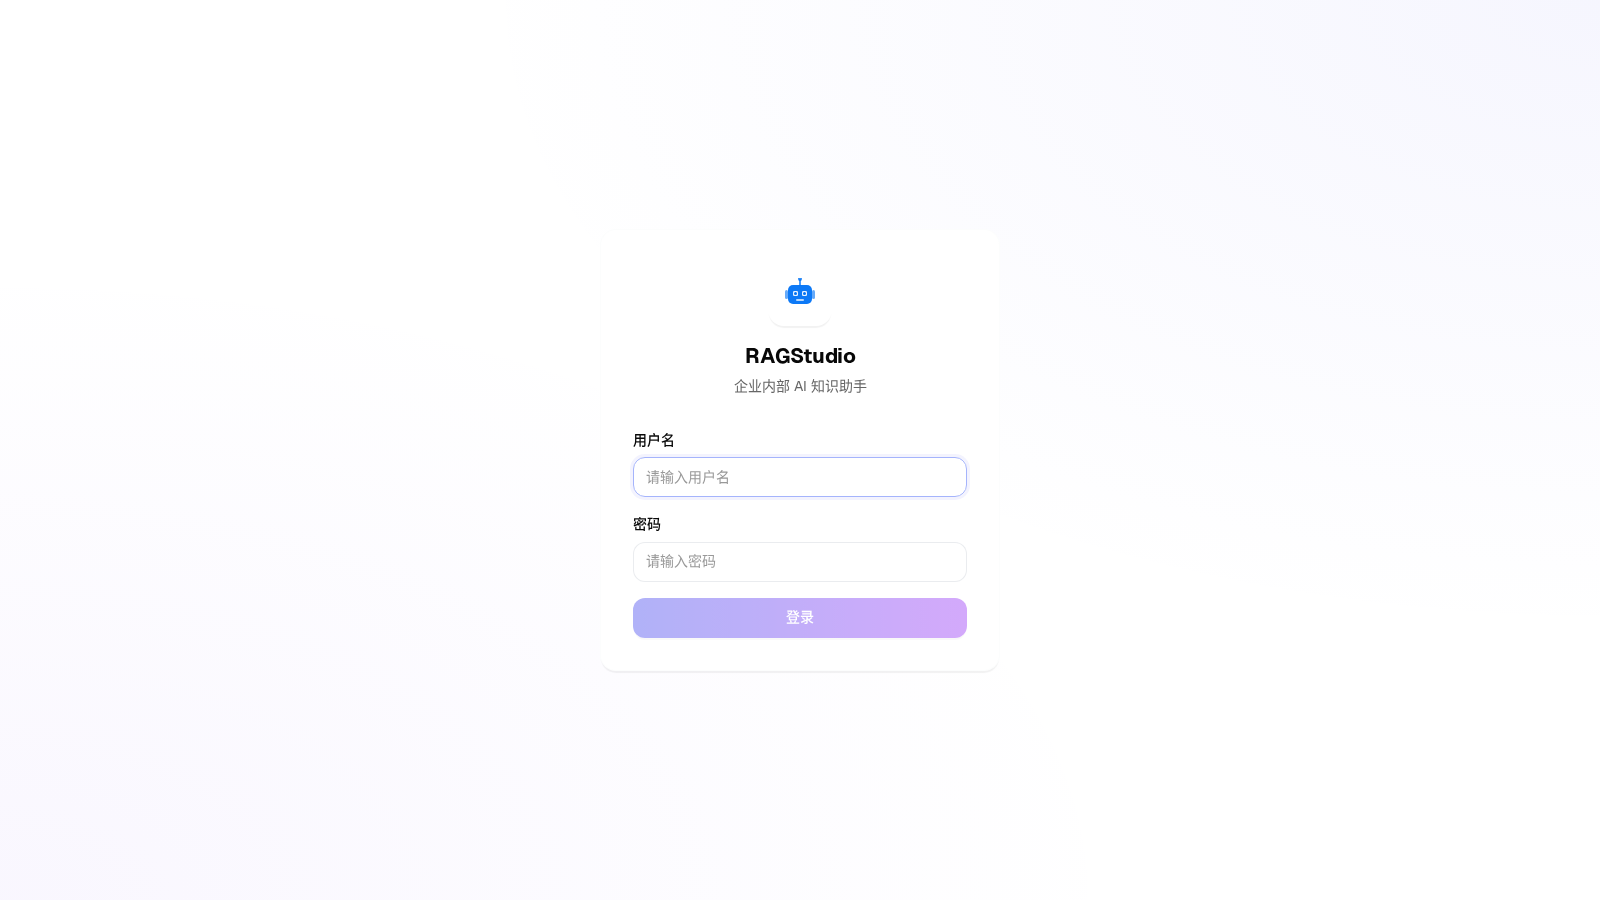
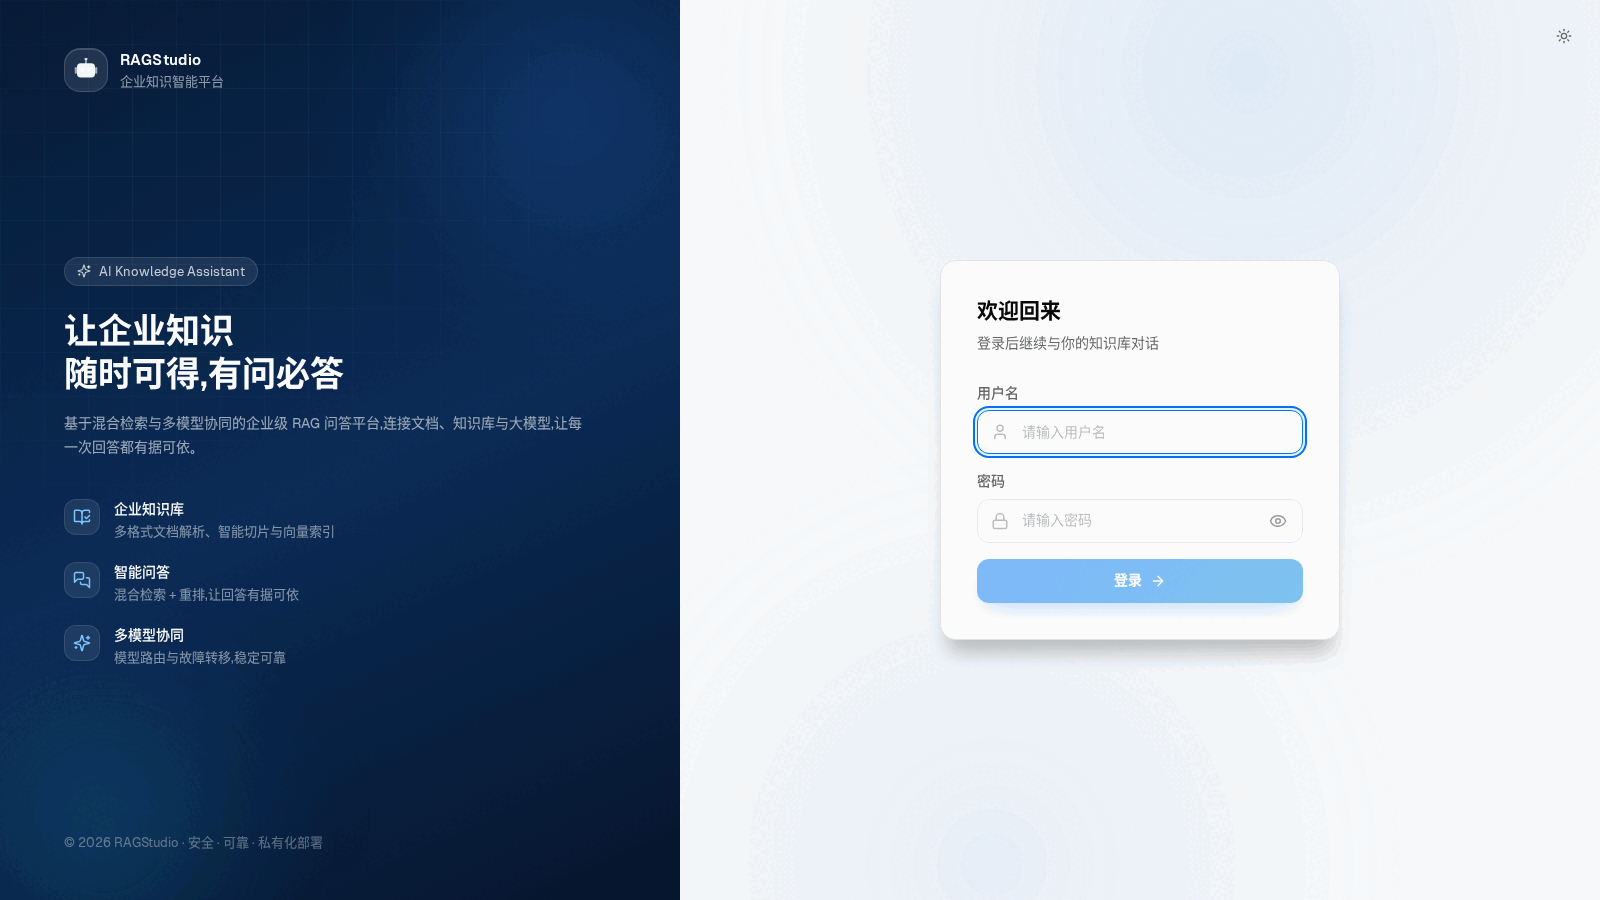
feat(login): 登录页双栏品牌改版——明暗主题切换、密码显隐、响应式适配，同步截图与README

diff --git a/frontend/src/pages/LoginPage.tsx b/frontend/src/pages/LoginPage.tsx
@@ -1,15 +1,45 @@
 import * as React from "react";
 import { useNavigate } from "react-router-dom";
-import { Loader2 } from "lucide-react";
+import {
+  ArrowRight,
+  BookOpenCheck,
+  Eye,
+  EyeOff,
+  Lock,
+  Loader2,
+  MessagesSquare,
+  Sparkles,
+  User
+} from "lucide-react";
 
 import { RAGStudioLogo } from "@/components/common/RAGStudioLogo";
+import { ThemeToggle } from "@/components/common/ThemeToggle";
 import { useAuthStore } from "@/stores/authStore";
+
+const FEATURES = [
+  {
+    icon: BookOpenCheck,
+    title: "企业知识库",
+    desc: "多格式文档解析、智能切片与向量索引"
+  },
+  {
+    icon: MessagesSquare,
+    title: "智能问答",
+    desc: "混合检索 + 重排，让回答有据可依"
+  },
+  {
+    icon: Sparkles,
+    title: "多模型协同",
+    desc: "模型路由与故障转移，稳定可靠"
+  }
+];
 
 export function LoginPage() {
   const navigate = useNavigate();
   const { login, isAuthenticated, isLoading } = useAuthStore();
   const [username, setUsername] = React.useState("");
   const [password, setPassword] = React.useState("");
+  const [showPassword, setShowPassword] = React.useState(false);
 
   React.useEffect(() => {
     if (isAuthenticated) {
@@ -17,9 +47,11 @@ export function LoginPage() {
     }
   }, [isAuthenticated, navigate]);
 
+  const canSubmit = Boolean(username.trim() && password.trim()) && !isLoading;
+
   const handleSubmit = async (e: React.FormEvent) => {
     e.preventDefault();
-    if (!username.trim() || !password.trim()) return;
+    if (!canSubmit) return;
     try {
       await login(username.trim(), password);
       navigate("/chat", { replace: true });
@@ -28,61 +60,236 @@ export function LoginPage() {
     }
   };
 
-  return (
-    <div className="relative flex min-h-screen items-center justify-center overflow-hidden px-4">
-      {/* 渐变背景层 */}
-      <div className="absolute inset-0 bg-gradient-to-br from-indigo-50 via-purple-50/40 to-indigo-100/60" />
-      <div className="absolute inset-0 bg-[radial-gradient(ellipse_at_top_right,rgba(99,102,241,0.06),transparent_50%)]" />
-      <div className="absolute inset-0 bg-[radial-gradient(ellipse_at_bottom_left,rgba(139,92,246,0.05),transparent_50%)]" />
+  const inputClass =
+    "h-11 w-full rounded-xl border border-border bg-transparent pl-11 pr-4 text-sm text-[var(--color-text)] outline-none transition-all duration-200 placeholder:text-[var(--color-text-quaternary)] focus:border-[hsl(var(--primary))] focus:shadow-[0_0_0_4px_hsl(var(--primary)/0.10)]";
 
-      {/* 登录卡片 */}
-      <div className="relative w-full max-w-[400px] animate-fade-up">
-        <div className="rounded-2xl border border-border/10 bg-card p-8 shadow-tertiary backdrop-blur-xl backdrop-saturate-150">
-          {/* Logo */}
-          <div className="flex flex-col items-center">
-            <div className="flex h-16 w-16 items-center justify-center rounded-2xl bg-gradient-to-br from-indigo-50 to-purple-50 shadow-sm">
-              <RAGStudioLogo className="h-8 w-8 text-indigo-600" />
+  return (
+    <div className="relative flex h-screen overflow-y-auto bg-[var(--color-bg-layout)]">
+      {/* 背景光晕 */}
+      <div
+        className="pointer-events-none fixed inset-0"
+        style={{
+          background:
+            "radial-gradient(900px circle at 78% 8%, hsl(var(--primary) / 0.10), transparent 60%), radial-gradient(700px circle at 62% 96%, hsl(var(--primary) / 0.07), transparent 60%)"
+        }}
+      />
+
+      <ThemeToggle className="fixed right-5 top-5 z-20" />
+
+      <div className="relative flex min-h-full w-full flex-col lg:flex-row">
+        {/* 左侧品牌区 */}
+        <aside
+          className="relative hidden w-[46%] max-w-[680px] shrink-0 flex-col justify-between overflow-hidden px-14 py-12 lg:flex xl:px-16"
+          style={{
+            background: "linear-gradient(155deg, #071b36 0%, #0b2c57 52%, #06142a 100%)"
+          }}
+        >
+          {/* 网格纹理 */}
+          <div
+            className="pointer-events-none absolute inset-0"
+            style={{
+              backgroundImage:
+                "linear-gradient(rgba(255,255,255,0.045) 1px, transparent 1px), linear-gradient(90deg, rgba(255,255,255,0.045) 1px, transparent 1px)",
+              backgroundSize: "44px 44px",
+              maskImage: "radial-gradient(ellipse 90% 70% at 30% 18%, black, transparent 75%)",
+              WebkitMaskImage: "radial-gradient(ellipse 90% 70% at 30% 18%, black, transparent 75%)"
+            }}
+          />
+          {/* 光斑 */}
+          <div
+            className="pointer-events-none absolute -right-24 -top-24 h-[420px] w-[420px] animate-pulse-soft rounded-full blur-3xl"
+            style={{ background: "radial-gradient(circle, rgba(56,132,255,0.35), transparent 65%)" }}
+          />
+          <div
+            className="pointer-events-none absolute -bottom-32 -left-24 h-[400px] w-[400px] rounded-full blur-3xl"
+            style={{ background: "radial-gradient(circle, rgba(34,211,238,0.20), transparent 65%)" }}
+          />
+
+          {/* 顶部 Logo */}
+          <div className="relative flex items-center gap-3">
+            <div
+              className="flex h-11 w-11 items-center justify-center rounded-2xl"
+              style={{
+                background: "rgba(255,255,255,0.10)",
+                border: "1px solid rgba(255,255,255,0.14)",
+                boxShadow: "inset 0 1px 0 rgba(255,255,255,0.16)"
+              }}
+            >
+              <RAGStudioLogo className="h-6 w-6 text-white" />
             </div>
-            <h1 className="mt-4 text-xl font-bold text-gray-900">RAGStudio</h1>
-            <p className="mt-1 text-sm text-gray-500">企业内部 AI 知识助手</p>
+            <div>
+              <p className="text-base font-semibold tracking-wide text-white">RAGStudio</p>
+              <p className="text-xs" style={{ color: "rgba(255,255,255,0.55)" }}>
+                企业知识智能平台
+              </p>
+            </div>
           </div>
 
-          {/* Form */}
-          <form onSubmit={handleSubmit} className="mt-8 space-y-4">
-            <div className="space-y-1.5">
-              <label className="text-sm font-medium text-gray-700">用户名</label>
-              <input
-                type="text"
-                value={username}
-                onChange={(e) => setUsername(e.target.value)}
-                placeholder="请输入用户名"
-                autoFocus
-                className="h-10 w-full rounded-xl border border-gray-200/80 bg-white/70 px-3 text-sm text-gray-900 placeholder:text-gray-400 transition-all duration-200 focus:border-indigo-300 focus:shadow-[0_0_0_3px_rgba(99,102,241,0.08)] focus:outline-none"
-              />
-            </div>
-            <div className="space-y-1.5">
-              <label className="text-sm font-medium text-gray-700">密码</label>
-              <input
-                type="password"
-                value={password}
-                onChange={(e) => setPassword(e.target.value)}
-                placeholder="请输入密码"
-                className="h-10 w-full rounded-xl border border-gray-200/80 bg-white/70 px-3 text-sm text-gray-900 placeholder:text-gray-400 transition-all duration-200 focus:border-indigo-300 focus:shadow-[0_0_0_3px_rgba(99,102,241,0.08)] focus:outline-none"
-              />
-            </div>
-            <button
-              type="submit"
-              disabled={isLoading || !username.trim() || !password.trim()}
-              className="flex h-10 w-full items-center justify-center rounded-xl bg-gradient-to-r from-indigo-500 to-purple-500 text-sm font-medium text-white shadow-sm transition-all duration-200 hover:shadow-md hover:shadow-indigo-200/50 disabled:opacity-50"
+          {/* 中部文案 */}
+          <div className="relative max-w-[520px]">
+            <span
+              className="inline-flex items-center gap-2 rounded-full px-3 py-1 text-xs"
+              style={{
+                background: "rgba(255,255,255,0.08)",
+                border: "1px solid rgba(255,255,255,0.12)",
+                color: "rgba(255,255,255,0.75)"
+              }}
             >
-              {isLoading ? (
-                <Loader2 className="h-4 w-4 animate-spin" />
-              ) : (
-                "登录"
-              )}
-            </button>
-          </form>
-        </div>
+              <Sparkles className="h-3.5 w-3.5" />
+              AI Knowledge Assistant
+            </span>
+            <h2 className="mt-6 text-[34px] font-semibold leading-[1.25] text-white">
+              让企业知识
+              <br />
+              随时可得，有问必答
+            </h2>
+            <p className="mt-4 text-sm leading-6" style={{ color: "rgba(255,255,255,0.6)" }}>
+              基于混合检索与多模型协同的企业级 RAG 问答平台，连接文档、知识库与大模型，让每一次回答都有据可依。
+            </p>
+
+            <div className="mt-10 space-y-5">
+              {FEATURES.map(({ icon: Icon, title, desc }) => (
+                <div key={title} className="flex items-start gap-3.5">
+                  <div
+                    className="flex h-9 w-9 shrink-0 items-center justify-center rounded-xl"
+                    style={{
+                      background: "rgba(255,255,255,0.08)",
+                      border: "1px solid rgba(255,255,255,0.10)"
+                    }}
+                  >
+                    <Icon className="h-[18px] w-[18px] text-[#7cc4ff]" />
+                  </div>
+                  <div>
+                    <p className="text-sm font-medium text-white">{title}</p>
+                    <p className="mt-0.5 text-[13px] leading-5" style={{ color: "rgba(255,255,255,0.5)" }}>
+                      {desc}
+                    </p>
+                  </div>
+                </div>
+              ))}
+            </div>
+          </div>
+
+          <p className="relative text-xs" style={{ color: "rgba(255,255,255,0.35)" }}>
+            © {new Date().getFullYear()} RAGStudio · 安全 · 可靠 · 私有化部署
+          </p>
+        </aside>
+
+        {/* 右侧登录区 */}
+        <main className="relative flex flex-1 items-center justify-center px-4 py-10 sm:px-8">
+          <div className="w-full max-w-[400px] animate-fade-up">
+            {/* 移动端品牌 */}
+            <div className="mb-8 flex flex-col items-center gap-3 lg:hidden">
+              <div
+                className="flex h-14 w-14 items-center justify-center rounded-2xl"
+                style={{
+                  background:
+                    "linear-gradient(135deg, hsl(var(--primary) / 0.14), hsl(var(--primary) / 0.04))",
+                  border: "1px solid hsl(var(--primary) / 0.18)"
+                }}
+              >
+                <RAGStudioLogo className="h-7 w-7 text-[hsl(var(--primary))]" />
+              </div>
+              <div className="text-center">
+                <p className="text-lg font-semibold text-[var(--color-text)]">RAGStudio</p>
+                <p className="text-xs text-[var(--color-text-secondary)]">企业内部 AI 知识助手</p>
+              </div>
+            </div>
+
+            {/* 登录卡片 */}
+            <div
+              className="rounded-2xl p-7 sm:p-9"
+              style={{
+                background: "var(--color-bg-container)",
+                border: "1px solid var(--color-border)",
+                boxShadow: "var(--shadow-lg)"
+              }}
+            >
+              <div className="mb-7">
+                <h1 className="text-xl font-semibold text-[var(--color-text)]">欢迎回来</h1>
+                <p className="mt-1.5 text-sm text-[var(--color-text-secondary)]">
+                  登录后继续与你的知识库对话
+                </p>
+              </div>
+
+              <form onSubmit={handleSubmit} className="space-y-4">
+                <div className="space-y-1.5">
+                  <label htmlFor="username" className="text-sm font-medium text-[var(--color-text-secondary)]">
+                    用户名
+                  </label>
+                  <div className="relative">
+                    <User className="pointer-events-none absolute left-3.5 top-1/2 h-[18px] w-[18px] -translate-y-1/2 text-[var(--color-text-quaternary)]" />
+                    <input
+                      id="username"
+                      type="text"
+                      value={username}
+                      onChange={(e) => setUsername(e.target.value)}
+                      placeholder="请输入用户名"
+                      autoFocus
+                      autoComplete="username"
+                      className={inputClass}
+                    />
+                  </div>
+                </div>
+
+                <div className="space-y-1.5">
+                  <label htmlFor="password" className="text-sm font-medium text-[var(--color-text-secondary)]">
+                    密码
+                  </label>
+                  <div className="relative">
+                    <Lock className="pointer-events-none absolute left-3.5 top-1/2 h-[18px] w-[18px] -translate-y-1/2 text-[var(--color-text-quaternary)]" />
+                    <input
+                      id="password"
+                      type={showPassword ? "text" : "password"}
+                      value={password}
+                      onChange={(e) => setPassword(e.target.value)}
+                      placeholder="请输入密码"
+                      autoComplete="current-password"
+                      className={`${inputClass} pr-11`}
+                    />
+                    <button
+                      type="button"
+                      tabIndex={-1}
+                      onClick={() => setShowPassword((v) => !v)}
+                      aria-label={showPassword ? "隐藏密码" : "显示密码"}
+                      className="absolute right-2.5 top-1/2 -translate-y-1/2 rounded-lg p-1.5 text-[var(--color-text-tertiary)] transition-colors hover:bg-[var(--color-fill-quaternary)] hover:text-[var(--color-text-secondary)]"
+                    >
+                      {showPassword ? (
+                        <EyeOff className="h-[18px] w-[18px]" />
+                      ) : (
+                        <Eye className="h-[18px] w-[18px]" />
+                      )}
+                    </button>
+                  </div>
+                </div>
+
+                <button
+                  type="submit"
+                  disabled={!canSubmit}
+                  className="group mt-2 flex h-11 w-full items-center justify-center gap-2 rounded-xl text-sm font-semibold text-white transition-all duration-200 hover:brightness-110 active:scale-[0.985] disabled:cursor-not-allowed disabled:opacity-50"
+                  style={{
+                    background:
+                      "linear-gradient(135deg, hsl(var(--primary)) 0%, hsl(203 100% 44%) 100%)",
+                    boxShadow: "0 10px 24px -10px hsl(var(--primary) / 0.7)"
+                  }}
+                >
+                  {isLoading ? (
+                    <Loader2 className="h-[18px] w-[18px] animate-spin" />
+                  ) : (
+                    <>
+                      登录
+                      <ArrowRight className="h-4 w-4 transition-transform duration-200 group-hover:translate-x-0.5" />
+                    </>
+                  )}
+                </button>
+              </form>
+            </div>
+
+            <p className="mt-6 text-center text-xs text-[var(--color-text-tertiary)] lg:hidden">
+              © {new Date().getFullYear()} RAGStudio · 企业内部系统
+            </p>
+          </div>
+        </main>
       </div>
     </div>
   );

diff --git a/README.md b/README.md
@@ -64,9 +64,15 @@
 
 <img src="docs/assets/screenshots/chat-workflow-confirm.png" width="100%"/>
 
-**登录页**
+### 登录页
+
+**双栏品牌登录（左侧产品能力介绍 · 明暗主题切换 · 密码显隐 · 响应式适配）**
 
 <img src="docs/assets/screenshots/login.png" width="100%"/>
+
+**深色主题**
+
+<img src="docs/assets/screenshots/login-dark.png" width="100%"/>
 
 ### 工作流与画布编排
 

diff --git a/README_EN.md b/README_EN.md
@@ -64,9 +64,15 @@
 
 <img src="docs/assets/screenshots/chat-workflow-confirm.png" width="100%"/>
 
-**Login**
+### Login
+
+**Split-screen brand login (feature highlights · light/dark theme · password visibility · responsive)**
 
 <img src="docs/assets/screenshots/login.png" width="100%"/>
+
+**Dark theme**
+
+<img src="docs/assets/screenshots/login-dark.png" width="100%"/>
 
 ### Workflows & Canvas Orchestration
 
